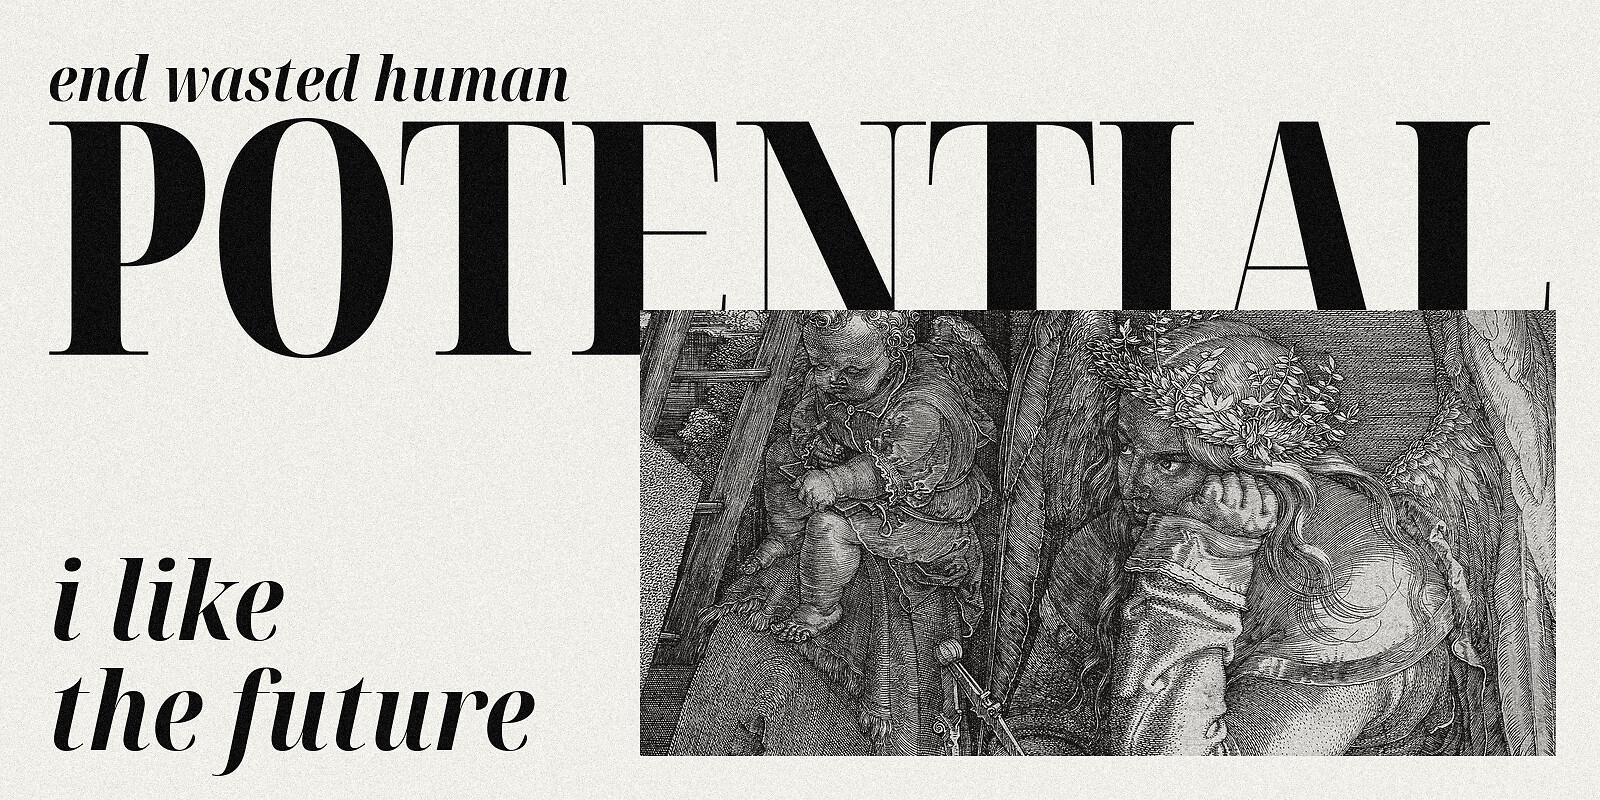
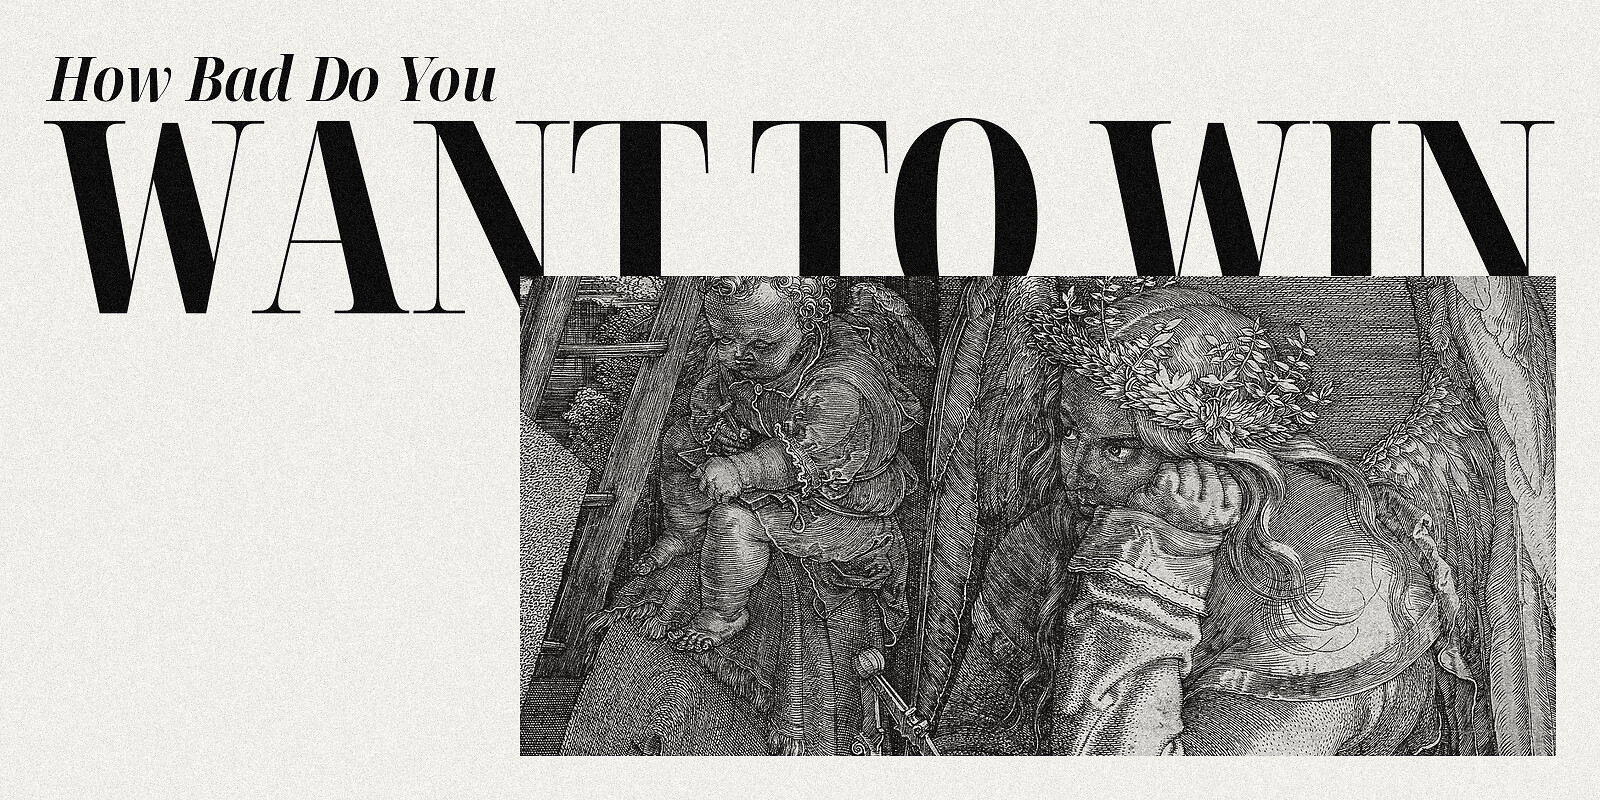
Profile: poster says How Bad Do You Want to Win

diff --git a/README.md b/README.md
@@ -1,5 +1,5 @@
 <p align="center">
-  <img src="assets/poster.jpg" alt="end wasted human potential / i like the future. Poster: giant POTENTIAL lettering over an engraving of a winged figure resting her head on her hand, her tools unused around her." width="100%">
+  <img src="assets/poster.jpg" alt="How Bad Do You Want to Win. Poster: giant WANT TO WIN lettering over an engraving of a winged figure resting her head on her hand, her tools unused around her." width="100%">
 </p>
 
 <p align="center">
